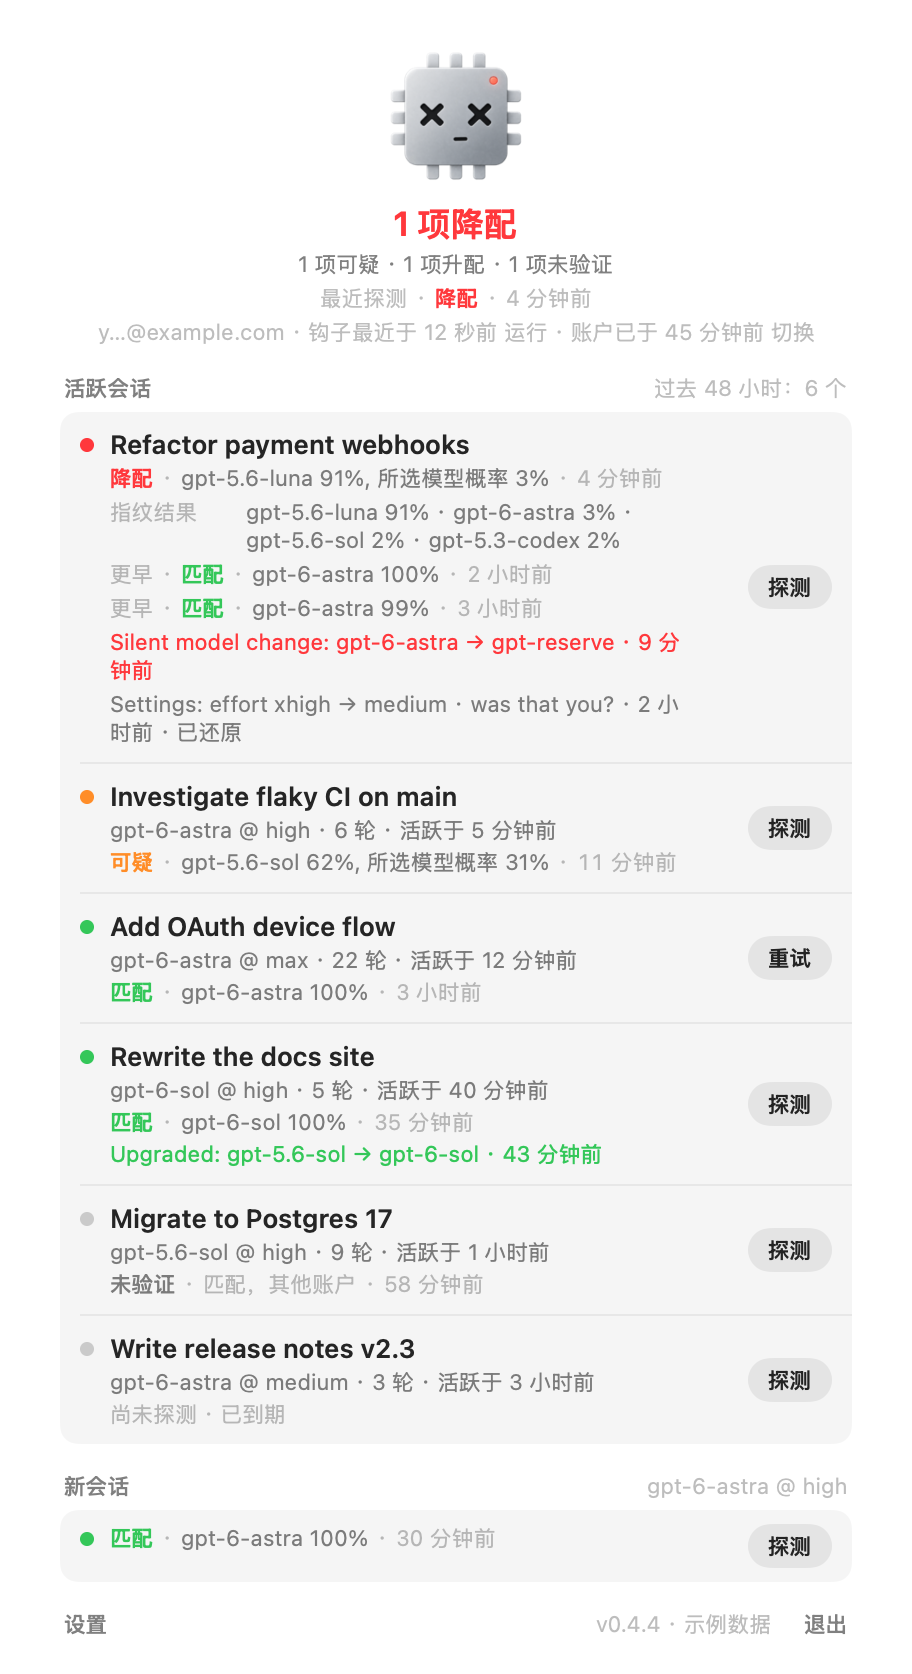
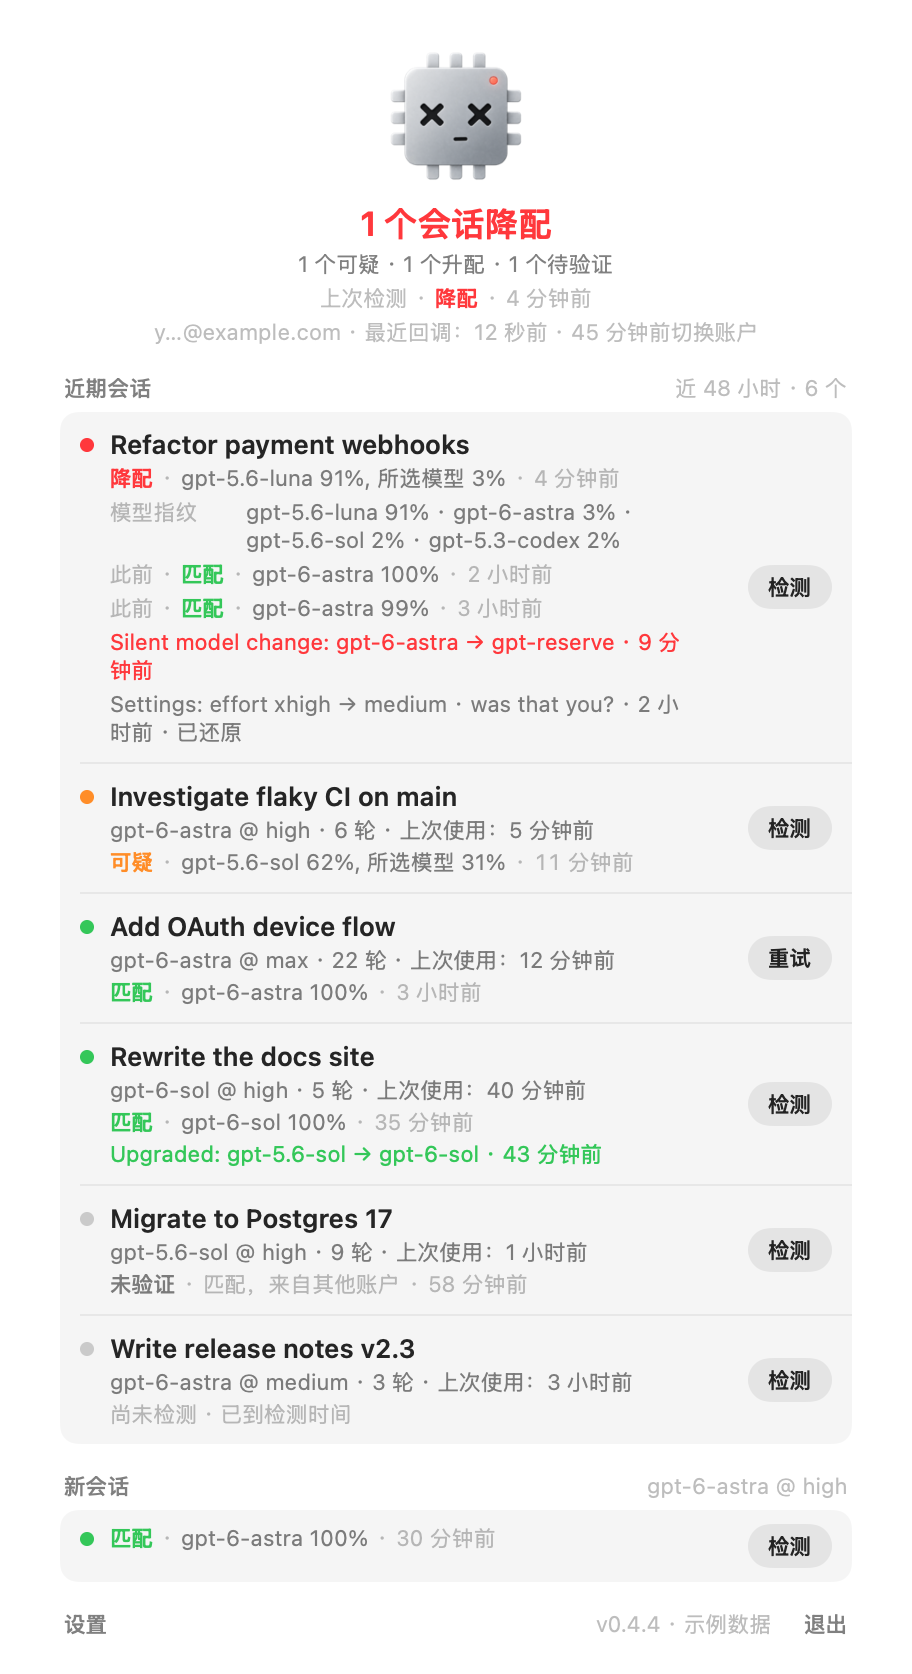
Refine Simplified Chinese copy for natural UI wording

diff --git a/macos/Tests/IsGPTNerfedTests/LocalizationTests.swift b/macos/Tests/IsGPTNerfedTests/LocalizationTests.swift
@@ -6,7 +6,7 @@ final class LocalizationTests: XCTestCase {
     func testChineseTranslationsAndFormatArguments() {
         XCTAssertEqual(L10n.tr("Match", language: "zh-Hans"), "匹配")
         XCTAssertEqual(L10n.tr("%@ of %@ answers", language: "zh-Hans", arguments: ["2", "3"]), "可用回答 2 / 3")
-        XCTAssertEqual(L10n.tr("declared %@", language: "zh-Hans", arguments: ["91%"]), "所选模型概率 91%")
+        XCTAssertEqual(L10n.tr("declared %@", language: "zh-Hans", arguments: ["91%"]), "所选模型 91%")
     }
 
     func testEnglishFallbackForUnsupportedLanguageAndUnknownKey() {
@@ -17,9 +17,9 @@ final class LocalizationTests: XCTestCase {
     func testDynamicStatusCountsAndUnknownStatusFallback() {
         XCTAssertEqual(
             L10n.statusMessage("2 downgraded · 1 suspicious · 3 probes running", language: "zh-Hans"),
-            "2 项降配 · 1 项可疑 · 3 个探测正在运行"
+            "2 个会话降配 · 1 个可疑 · 3 个正在检测"
         )
-        XCTAssertEqual(L10n.statusMessage("1 probe running", language: "zh-Hans"), "1 个探测正在运行")
+        XCTAssertEqual(L10n.statusMessage("1 probe running", language: "zh-Hans"), "1 个正在检测")
         XCTAssertEqual(L10n.statusMessage("all clear", language: "fr"), "All clear")
         XCTAssertEqual(L10n.statusMessage("2 downgraded · future state", language: "zh-Hans"), "2 downgraded · future state")
     }
